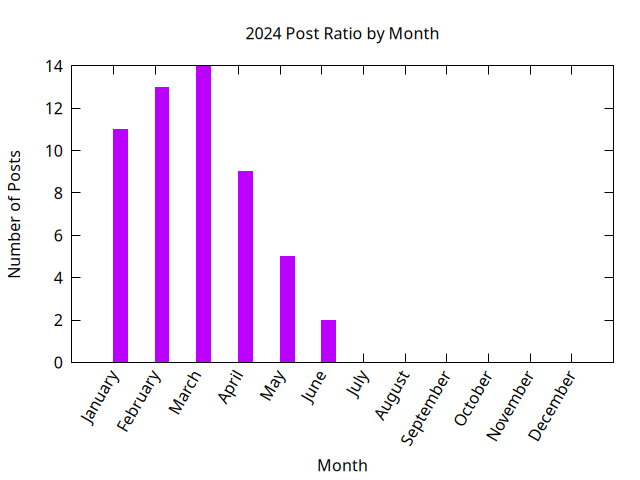
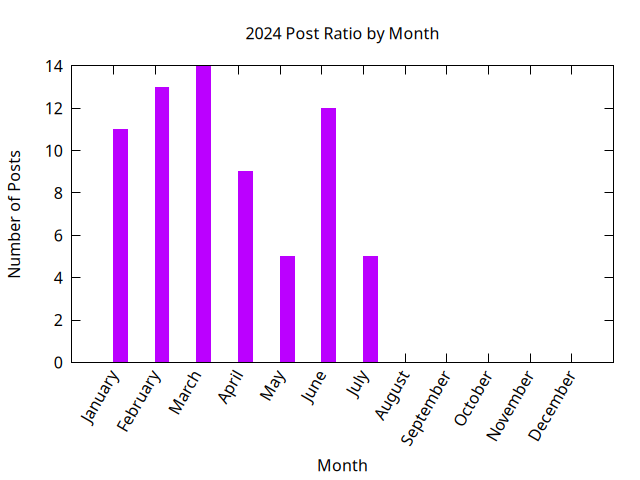
Stats update

Changed region(s): [[0.5, 0.2188, 0.5312, 0.6875], [0.5625, 0.5312, 0.5938, 0.75]]

diff --git a/_includes/stats/2024.md b/_includes/stats/2024.md
@@ -1,25 +1,35 @@
 <a name="2024" />
 ## 2024 (work in progress)
 
-**54 total posts** have been written on 2024.
-There have been *15 different tags* used, the most
+**69 total posts** have been written on 2024.
+There have been *25 different tags* used, the most
 popular being (sorted by number of posts):
  
-- *perl* (38 posts)  
-- *perlweeklychallenge* (25 posts)  
-- *raku* (25 posts)  
-- *python* (23 posts)  
-- *java* (22 posts)  
-- *postgresql* (16 posts)  
-- *planet-postgresql-org* (16 posts)  
+- *perl* (46 posts)  
+- *raku* (33 posts)  
+- *perlweeklychallenge* (31 posts)  
+- *python* (30 posts)  
+- *java* (28 posts)  
+- *planet-postgresql-org* (17 posts)  
+- *postgresql* (17 posts)  
 - *mojolicious* (3 posts)  
 - *pljava* (2 posts)  
 - *pgagroal* (2 posts)  
+- *linux* (1 posts)  
+- *clang* (1 posts)  
 - *distzilla* (1 posts)  
-- *pgenv* (1 posts)  
-- *dbiclass* (1 posts)  
 - *emacs* (1 posts)  
-- *zsh* (1 posts).<br/>
+- *ansible* (1 posts)  
+- *dbiclass* (1 posts)  
+- *zammad* (1 posts)  
+- *kubuntu* (1 posts)  
+- *zsh* (1 posts)  
+- *shibboleth* (1 posts)  
+- *llvm* (1 posts)  
+- *debian* (1 posts)  
+- *nginx* (1 posts)  
+- *privacy* (1 posts)  
+- *pgenv* (1 posts).<br/>
 <br/>
 The following is the overall 2024 post ratio by month:
 <br/>
@@ -38,7 +48,7 @@ The following is the overall 2024 post ratio by tag (showing max 30 tags):
 
 <div align="right">
 <small>
-Last generated on 2024-06-10 at 17:54
+Last generated on 2024-07-15 at 14:31
 </small>
 </div>
 
